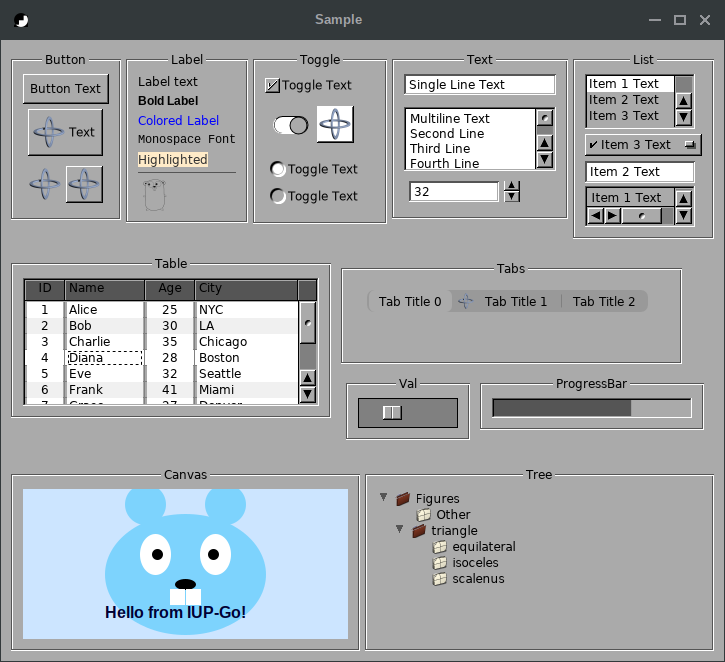
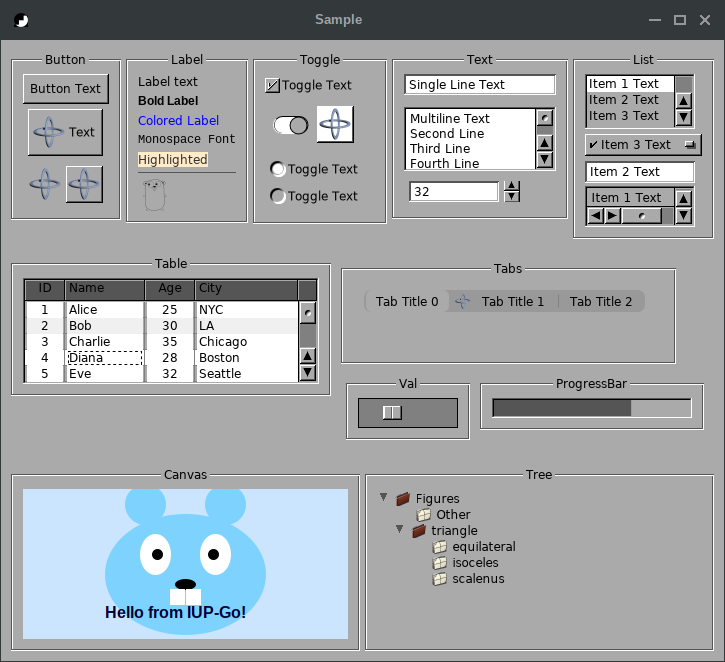
examples: Updates and screenshots

diff --git a/examples/tips/tips.go b/examples/tips/tips.go
@@ -26,7 +26,7 @@ func main() {
 	plain := iup.Label("Plain TIP").SetAttribute("TIP", "A plain tip")
 
 	styled := iup.Button("TIPBGCOLOR, TIPFGCOLOR, TIPFONT and TIPDELAY")
-	styled.SetAttributes(`TIP="Dark tip in a bold font, shown after one second", TIPBGCOLOR="40 40 60", TIPFGCOLOR="255 230 120", TIPFONT="Sans, Bold 12", TIPDELAY=1000`)
+	styled.SetAttributes(`TIP="Dark tip in a bold font, hidden after one second", TIPBGCOLOR="40 40 60", TIPFGCOLOR="255 230 120", TIPFONT="Sans, Bold 12", TIPDELAY=1000`)
 
 	markup := iup.Text()
 	markup.SetAttributes(`VALUE="TIPMARKUP and TIPICON", EXPAND=HORIZONTAL, TIPMARKUP=YES, TIP="<b>Bold</b> and <i>italic</i> Pango markup with an icon", TIPICON=tip_icon`)

diff --git a/examples/table_spreadsheet/table_spreadsheet.go b/examples/table_spreadsheet/table_spreadsheet.go
@@ -97,7 +97,7 @@ func main() {
 		return iup.DEFAULT
 	}))
 
-	where := iup.Label("A1").SetAttributes("VISIBLECOLUMNS=6, ALIGNMENT=ACENTER").SetHandle("where")
+	where := iup.Label("A1").SetAttributes("ALIGNMENT=ACENTER").SetHandle("where")
 	formula := iup.Text().SetAttributes("EXPAND=HORIZONTAL").SetHandle("formula")
 	formula.SetCallback("K_ANY", iup.KAnyFunc(formulaKey))
 
@@ -228,7 +228,9 @@ func summarize() bool {
 }
 
 func show(c cell) {
-	iup.GetHandle("where").SetAttribute("TITLE", name(c))
+	where := iup.GetHandle("where")
+	where.SetAttribute("TITLE", name(c))
+	iup.Refresh(where)
 	iup.GetHandle("formula").SetAttribute("VALUE", sheet[c])
 	if summarize() {
 		return
